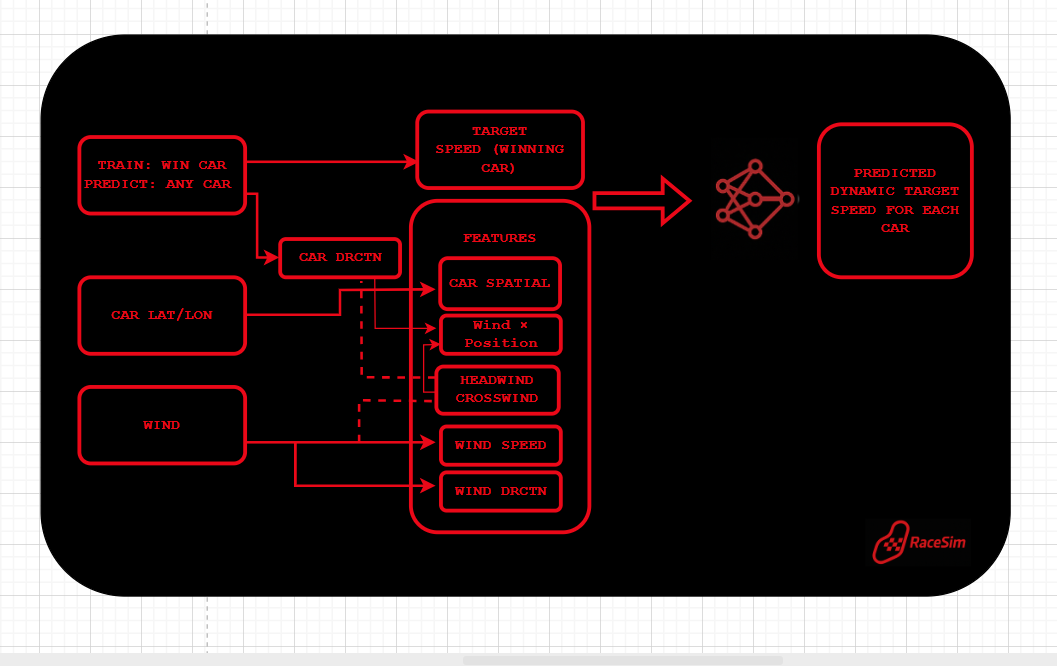
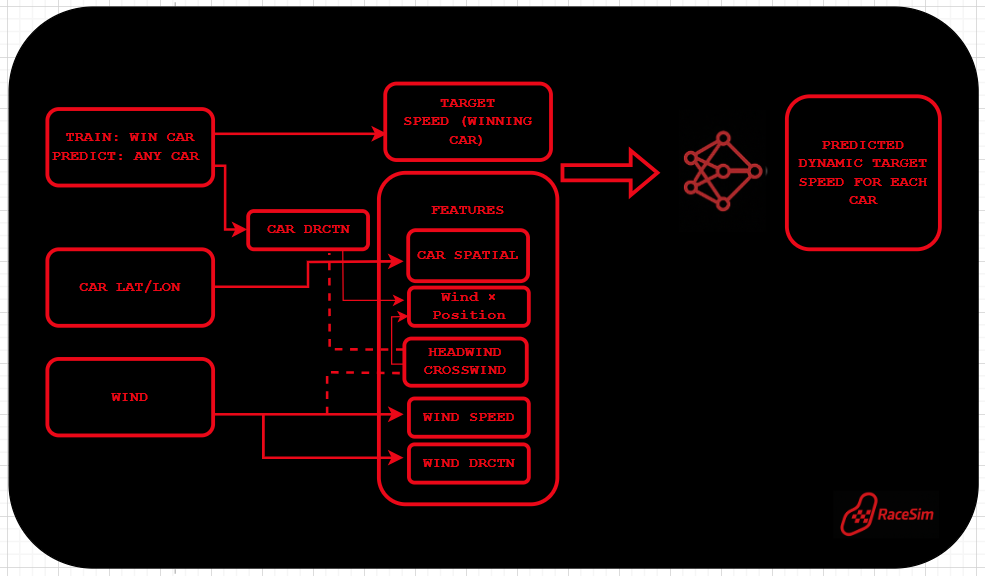
add race json

diff --git a/ROADMAP.md b/ROADMAP.md
@@ -50,5 +50,5 @@ Adjustable playback speeds for coaching
 
 
 <p align="center">
-<img src="assets/target-speed-roadmap.png" width="550" />
+<img src="assets/future-pp.png" width="550" />
 </p>
